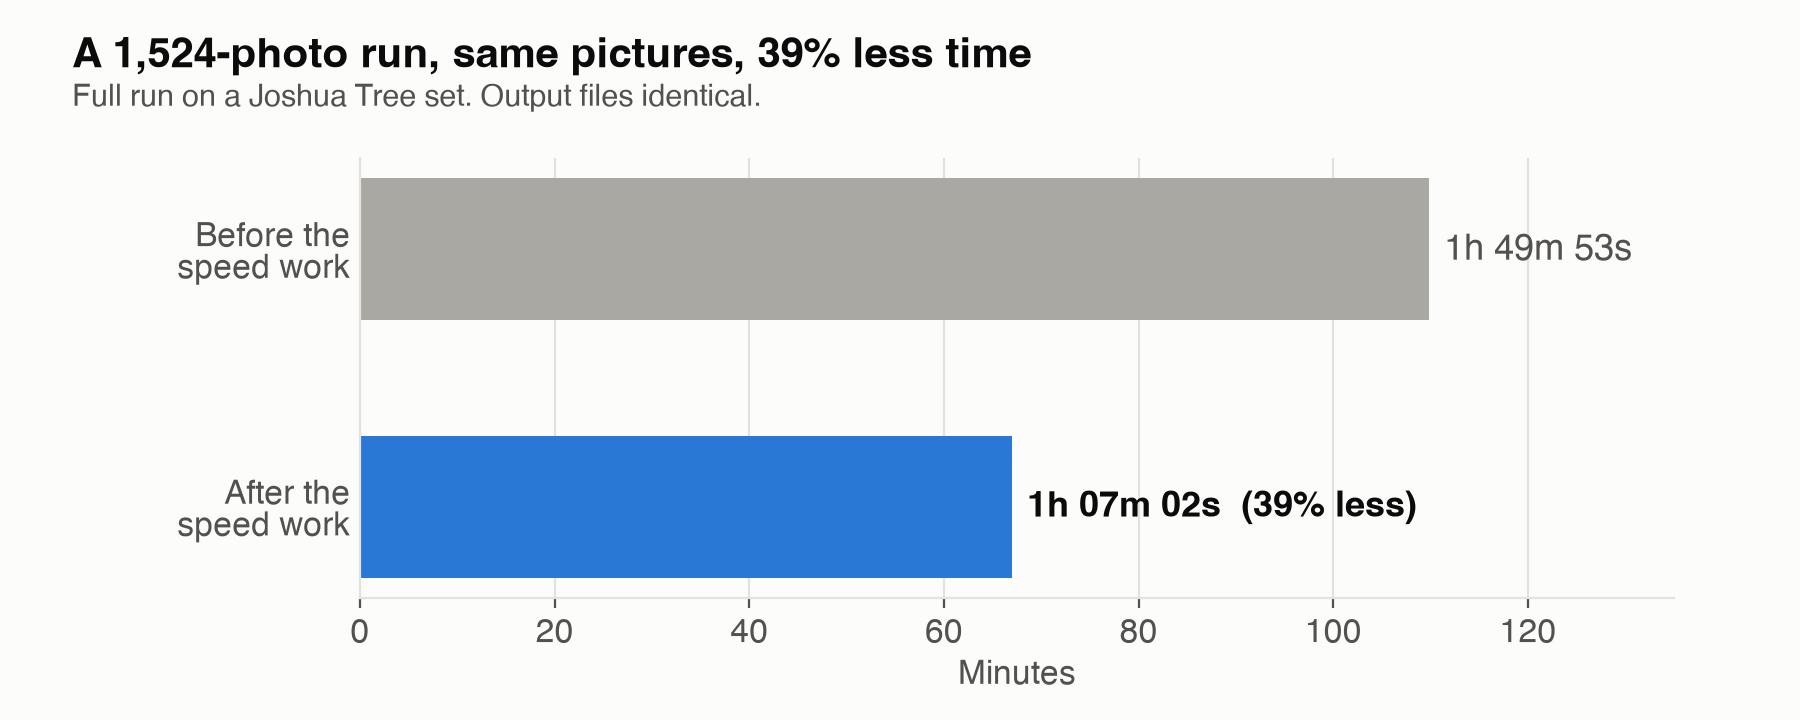
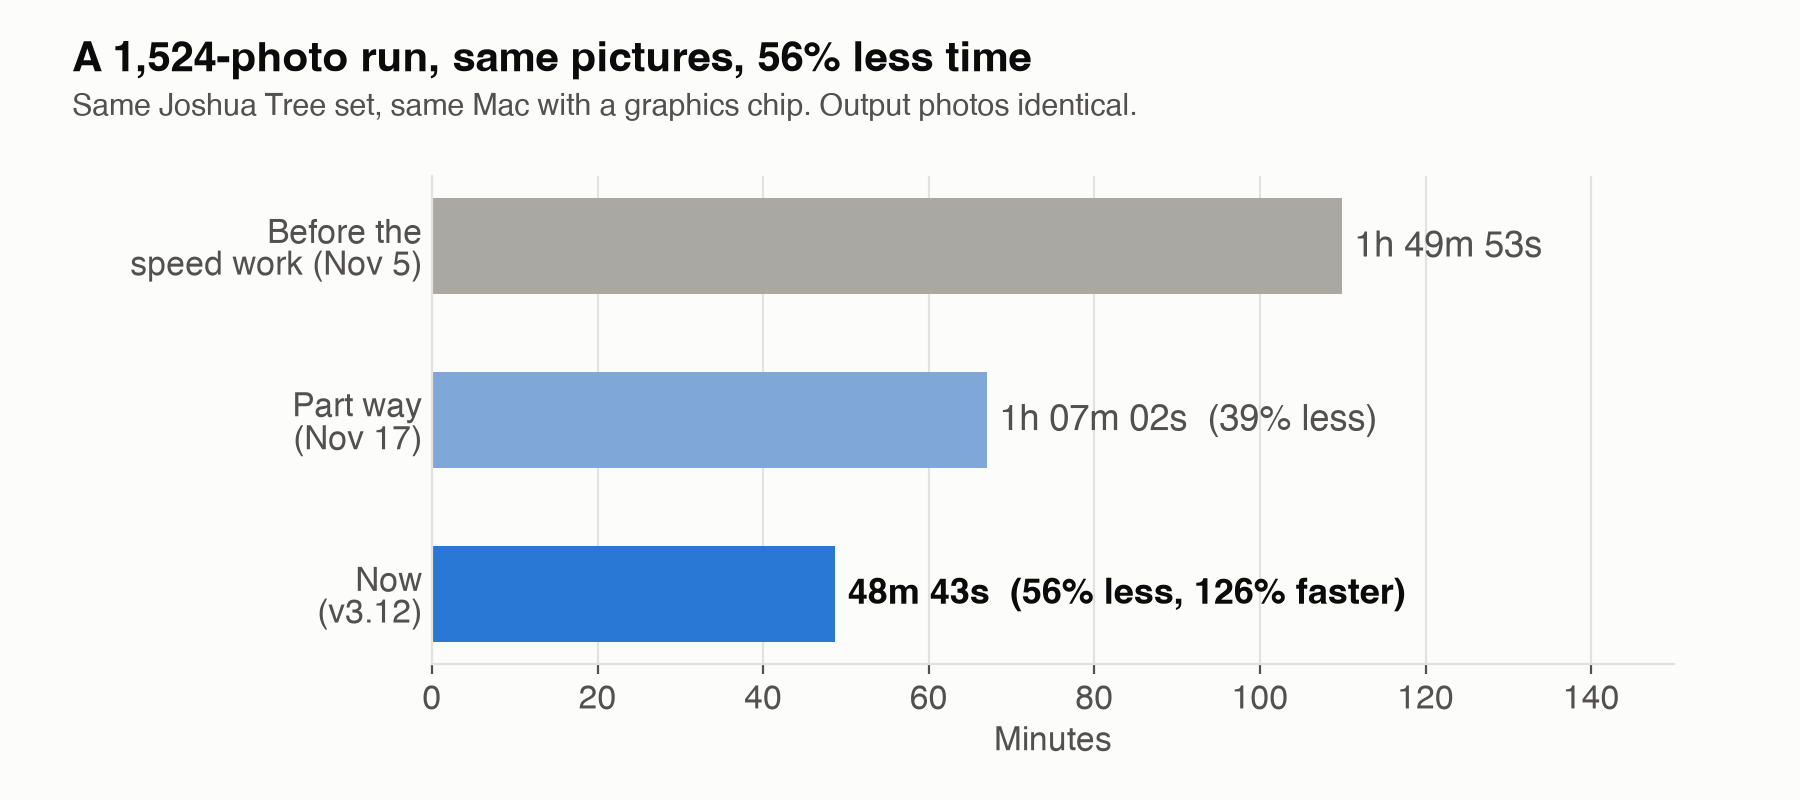
Website: Technical Note No. 4 (Speed) updated with the v3.12 measurements. Full 1,524-photo Joshua Tree run on a Mac with a graphics chip: 1h 49m 53s (Nov 5) to 48m 43s (v3.12), 56% less time or 126% faster, first 340 photos 62% less. Processor only, four batches of 20 photos across the set, v3.05 a

diff --git a/website/speed.html b/website/speed.html
@@ -126,7 +126,7 @@
 <header class="tt">
   <div class="eyebrow">Star Trail CleanR &middot; Technical Notes &middot; No. 4</div>
   <h1>How we made Star Trail CleanR even faster</h1>
-  <p class="subtitle">We got the app stable and added the features first. Then we spent a round of work on speed. A full run now takes 39% less time, and the photos come out identical. This note covers the graphics chip, and what we learned about finding slowdowns in any program.</p>
+  <p class="subtitle">We got the app stable and added the features first. Then we spent a round of work on speed. A full run now takes 56% less time on a Mac with a graphics chip and about 76% less on the processor alone, and the photos come out identical. This note covers the graphics chip, and what we learned about finding slowdowns in any program.</p>
   <div class="byline">
     <span><b>The Star Trail CleanR project</b> &middot; startrailcleanr.com</span>
     <span>Published November 2026</span>
@@ -137,19 +137,27 @@
 
 <div class="abstract">
   <div class="lab">Summary</div>
-  <p>A full run on a 1,524-photo Joshua Tree set went from 1h 49m 53s to 1h 07m 02s, with identical photos. Most of the time is the AI looking at small tiles, and a graphics chip is the biggest speed-up. Everything else came from measuring first, keeping the output identical, and fixing one slowdown at a time. Each round saves less than the one before it, but there are always easy savings left in an area we haven't measured yet.</p>
+  <p>A full run on a 1,524-photo Joshua Tree set went from 1h 49m 53s to 48m 43s on a Mac with a graphics chip (56% less time, or 126% faster), with identical photos. On the processor alone it is about 4 times as fast (315% faster). Most of the time is the AI looking at small tiles, and a graphics chip is the biggest speed-up. Everything else came from measuring first, keeping the output identical, and fixing one slowdown at a time. Each round saves less than the one before it, but there are always easy savings left in an area we haven't measured yet.</p>
 </div>
 
 <div class="prose">
 
 <h2>Stable first, then fast</h2>
 <p>For a long time, speed wasn't our priority. First we wanted Star Trail CleanR to work, then to work reliably on all kinds of photos, and then to have the features photographers asked for. Speed was the next step, and it only made sense once those were done. You can't safely tune a program that's still changing underneath you.</p>
-<p>The app is stable and has its features now, so we spent a round of work on speed. A full run on a 1,524-photo Joshua Tree set used to take 1h 49m 53s. After the speed work, the same run takes 1h 07m 02s. That's 39% less time, and the finished photos are identical, pixel for pixel.</p>
+<p>The app is stable and has its features now, so we spent a round of work on speed. A full run on a 1,524-photo Joshua Tree set used to take 1h 49m 53s. After the speed work, the same run takes 48m 43s. That's 56% less time, or 126% faster, on a Mac with a graphics chip. The finished photos are identical: we compared 61 photos spread across the set, pixel for pixel.</p>
+<p>Most runs are smaller than that. The average in our usage numbers is about 336 photos. On the first 340 photos of this set, the same Mac went from 33m 48s to 12m 56s, which is 62% less time, or 161% faster.</p>
 <p>A test batch of 20 aurora photos, on a Mac with a graphics chip, went from 3m 06s to 1m 37s. That's 48% less time.</p>
 
 <figure>
   <img src="speed-hero.png" alt="Two bars comparing a 1,524-photo run before and after the speed work: 1h 49m 53s and 1h 07m 02s">
-  <figcaption><b>Figure 1.</b> The same 1,524-photo Joshua Tree run before and after the speed work. The finished photos are identical.</figcaption>
+  <figcaption><b>Figure 1.</b> The same 1,524-photo Joshua Tree run before the speed work, part way through it, and now, on the same Mac with a graphics chip. The finished photos are identical.</figcaption>
+</figure>
+
+<p>On a computer with no graphics chip, the gain is bigger. We timed four batches of 20 photos, spread across the same set, on the processor alone, with version 3.05 and with version 3.12. The four batches took 65m 45s with version 3.05 and 15m 50s with version 3.12. That's 75.9% less time, about 4 times as fast, or 315% faster, and the photos are identical. About 40% of the runs in our usage numbers are on the processor, so this matters to a lot of people.</p>
+
+<figure>
+  <img src="speed-cpu.png" alt="Paired bars for four batches of 20 photos on the processor only: version 3.05 took about 16 minutes each and version 3.12 about 4 minutes each">
+  <figcaption><b>Figure 2.</b> Four batches of 20 photos on the processor alone. Grey is version 3.05 and blue is version 3.12. Every batch is about 75% faster.</figcaption>
 </figure>
 
 <p>There's a second, bigger speed-up for many people: a graphics chip doing the AI work. On one Mac it's about 12 times faster for that step alone. This note covers the graphics chip and everything we did around it. Most of it is about how we found the fixes, because that part works on any slow program.</p>
@@ -162,7 +170,7 @@
 
 <figure>
   <img src="speed-where.png" alt="One bar showing the AI step takes about 87 percent of detection time">
-  <figcaption><b>Figure 2.</b> In a typical 20-photo batch, the AI looking at tiles takes about 87% of the detection time.</figcaption>
+  <figcaption><b>Figure 3.</b> In a typical 20-photo batch, the AI looking at tiles takes about 87% of the detection time.</figcaption>
 </figure>
 
 <h2>The biggest speed-up: the graphics chip</h2>
@@ -175,7 +183,7 @@
 
 <figure>
   <img src="speed-tile.png" alt="Bars comparing 17 milliseconds per tile on a graphics chip with 205 on the processor">
-  <figcaption><b>Figure 3.</b> Time for the AI to look at one tile, on the same Mac.</figcaption>
+  <figcaption><b>Figure 4.</b> Time for the AI to look at one tile, on the same Mac.</figcaption>
 </figure>
 
 <h2>Rule one: the photos can't change</h2>
@@ -193,12 +201,12 @@
 
 <figure>
   <img src="speed-expect.png" alt="Bars comparing the expected saving with the measured saving for two fixes">
-  <figcaption><b>Figure 4.</b> What we expected two fixes to save, and what they saved.</figcaption>
+  <figcaption><b>Figure 5.</b> What we expected two fixes to save, and what they saved.</figcaption>
 </figure>
 
 <figure>
   <img src="speed-estimate.png" alt="Bars comparing the app's estimated run time with the actual run time on two sets">
-  <figcaption><b>Figure 5.</b> The app's time estimate against what the run took, for two sets.</figcaption>
+  <figcaption><b>Figure 6.</b> The app's time estimate against what the run took, for two sets.</figcaption>
 </figure>
 
 <h2>Seven kinds of fix</h2>
@@ -215,12 +223,12 @@
 
 <figure>
   <img src="speed-seven.png" alt="Seven tiles, one for each kind of fix, each with its biggest measured gain">
-  <figcaption><b>Figure 6.</b> The seven kinds of fix, each with its biggest measured gain.</figcaption>
+  <figcaption><b>Figure 7.</b> The seven kinds of fix, each with its biggest measured gain.</figcaption>
 </figure>
 
 <figure>
   <img src="speed-steps.png" alt="Paired bars on a log scale showing before and after times for seven steps">
-  <figcaption><b>Figure 7.</b> Before and after times for the biggest single fixes. Each gridline is ten times the last.</figcaption>
+  <figcaption><b>Figure 8.</b> Before and after times for the biggest single fixes. Each gridline is ten times the last.</figcaption>
 </figure>
 
 <h2>Diminishing returns</h2>
@@ -242,12 +250,12 @@
 
 <figure>
   <img src="speed-hot.png" alt="Stacked bars of the hot-pixel steps before and after: 1m 35s and 54 seconds">
-  <figcaption><b>Figure 8.</b> Hot-pixel removal on 200 photos, step by step. The output is identical.</figcaption>
+  <figcaption><b>Figure 9.</b> Hot-pixel removal on 200 photos, step by step. The output is identical.</figcaption>
 </figure>
 
 <figure>
   <img src="speed-reads.png" alt="Two bars: the flash finder takes 57 seconds reading from disk and 23 seconds with photos in memory">
-  <figcaption><b>Figure 9.</b> The same step with real disk reads and with the photos already in memory.</figcaption>
+  <figcaption><b>Figure 10.</b> The same step with real disk reads and with the photos already in memory.</figcaption>
 </figure>
 
 <h2>Keep the timers</h2>

diff --git a/website/research.html b/website/research.html
@@ -126,11 +126,11 @@
     </a>
 
     <a class="paper" href="speed.html">
-      <img class="thumb" src="speed-thumb.jpg" alt="Bars comparing a full run before and after the speed work: 1h 49m 53s and 1h 07m 02s">
+      <img class="thumb" src="speed-thumb.jpg" alt="Bars comparing a full run before and after the speed work: 1h 49m 53s, 1h 07m 02s and 48m 43s">
       <div class="body">
         <div class="eyebrow">Technical Notes &middot; No. 4 &middot; Speed</div>
         <h2>How we made Star Trail CleanR even faster</h2>
-        <p>We got the app stable first, added the features, and then spent a round of work on speed. A full run now takes 39% less time and the photos come out identical. This note covers the graphics chip, seven kinds of fix, why measuring beats guessing, and why each round saves less than the one before it.</p>
+        <p>We got the app stable first, added the features, and then spent a round of work on speed. A full run now takes 56% less time on a graphics chip and about 76% less on the processor alone, and the photos come out identical. This note covers the graphics chip, seven kinds of fix, why measuring beats guessing, and why each round saves less than the one before it.</p>
         <span class="read">Read the write-up &rarr;</span>
       </div>
     </a>
